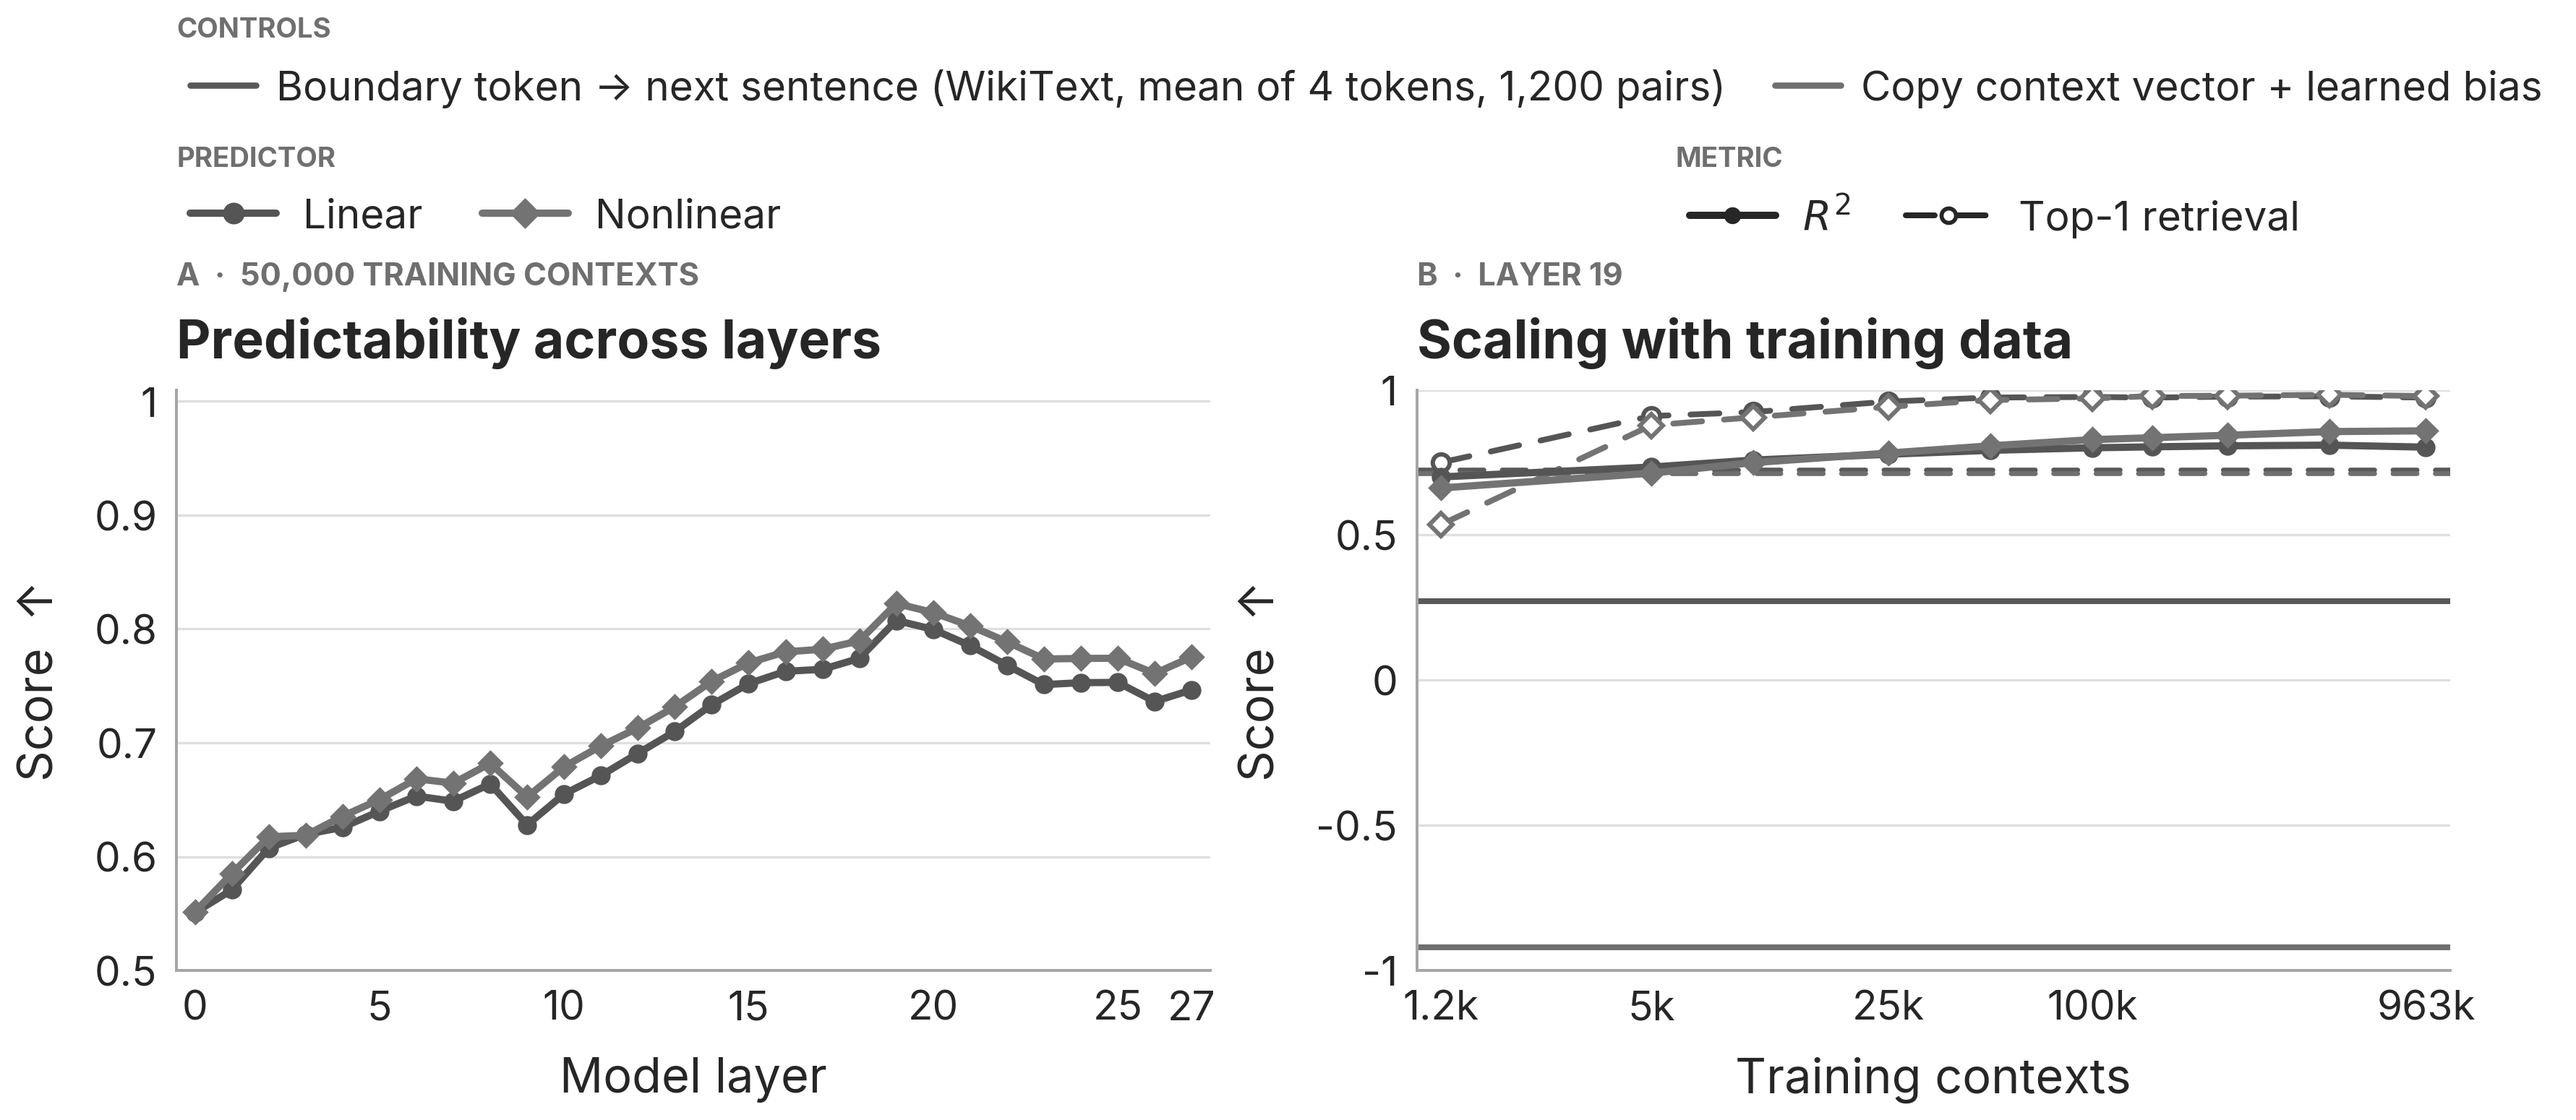
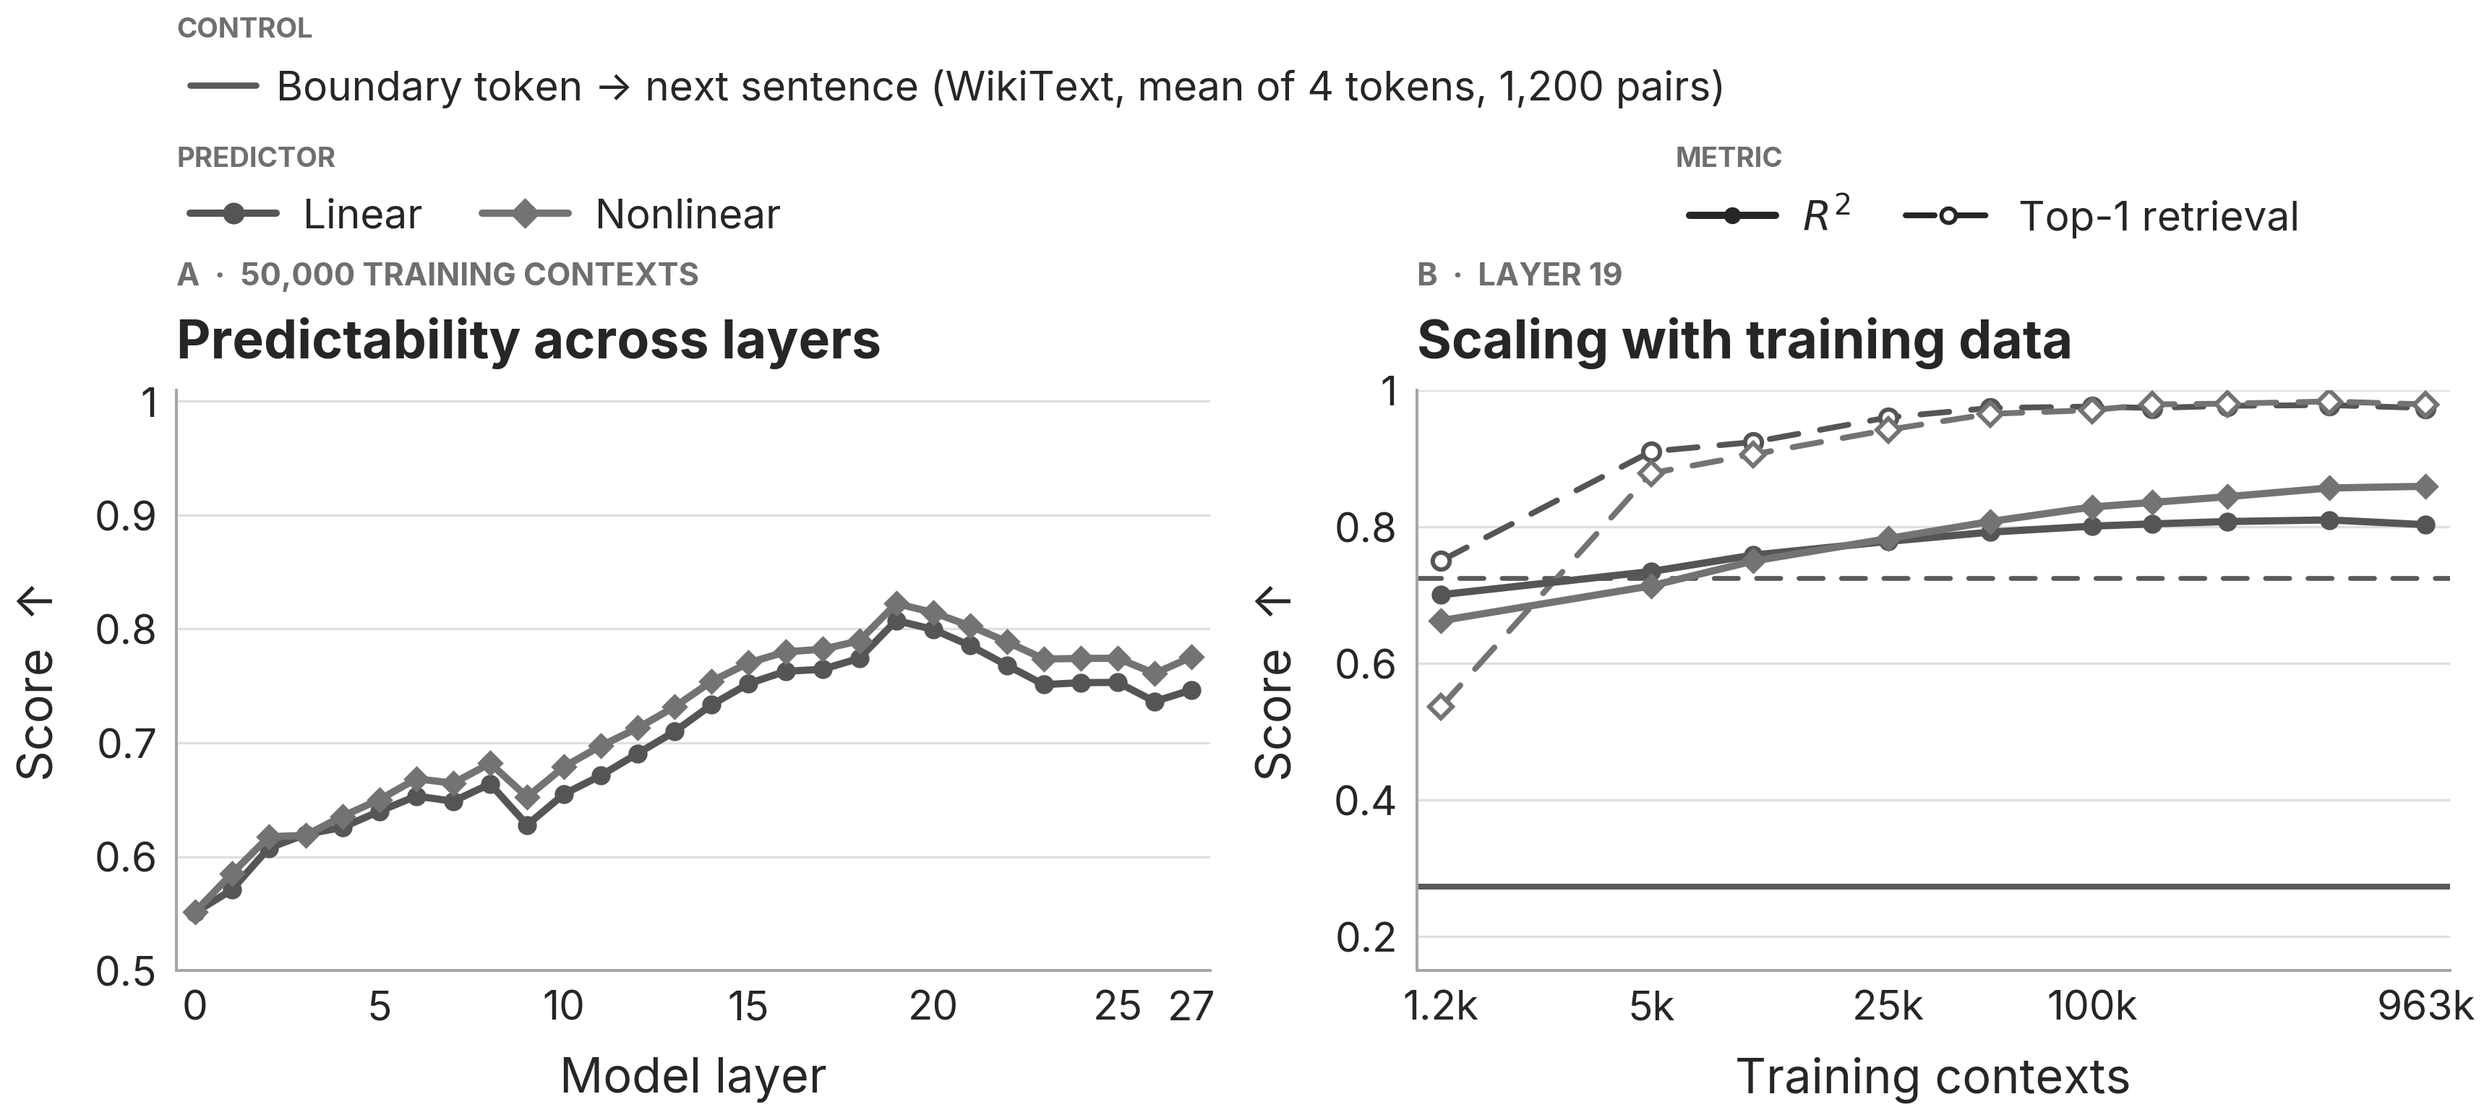
Figure 2B: drop the copy-context baseline lines (kept in sidecar metadata)
Generated with [Claude Code](https://claude.ai/code)
via [Happy](https://happy.engineering)

diff --git a/scripts/make_paper_figure2.py b/scripts/make_paper_figure2.py
@@ -162,10 +162,8 @@ def _plot_controls(ax: plt.Axes, boundary: dict | None, extension: dict | None) 
     if boundary is not None:
         ax.axhline(boundary["r2_mean"], color=BOUNDARY_COLOR, lw=2.4, zorder=2)
         ax.axhline(boundary["retrieval_mean"], color=BOUNDARY_COLOR, lw=2.0, linestyle=dash, zorder=2)
-    if extension is not None:
-        ib = extension["identity_bias"]
-        ax.axhline(ib["r2"], color=COPY_COLOR, lw=2.4, zorder=2)
-        ax.axhline(ib["retrieval"], color=COPY_COLOR, lw=2.0, linestyle=dash, zorder=2)
+    # The copy-context baselines stay in the sidecar metadata but are not drawn
+    # (their R^2 is far below the axis; the text quotes them).
 
 
 def _control_legend_handles(boundary: dict | None, extension: dict | None) -> list[Line2D]:
@@ -173,8 +171,6 @@ def _control_legend_handles(boundary: dict | None, extension: dict | None) -> li
     if boundary is not None:
         handles.append(Line2D([0], [0], color=BOUNDARY_COLOR, lw=2.6,
                               label=f"Boundary token \u2192 next sentence (WikiText, mean of {boundary['n_tokens']} tokens, {boundary['n_train_per_token']:,} pairs)"))
-    if extension is not None:
-        handles.append(Line2D([0], [0], color=COPY_COLOR, lw=2.6, label="Copy context vector + learned bias"))
     return handles
 
 
@@ -310,8 +306,8 @@ def make_figure(layer: dict, scaling: dict, boundary: dict | None = None, extens
     controls = boundary is not None or extension is not None
     if controls:
         _plot_controls(ax_scale, boundary, extension)
-        ax_scale.set_ylim(-1.0, 1.0)
-        ax_scale.set_yticks([-1.0, -0.5, 0.0, 0.5, 1.0])
+        ax_scale.set_ylim(0.15, 1.0)
+        ax_scale.set_yticks([0.2, 0.4, 0.6, 0.8, 1.0])
 
     ax_layer.set_xlim(-0.5, 27.5)
     ax_layer.set_xticks([0, 5, 10, 15, 20, 25, 27])
@@ -379,7 +375,7 @@ def make_figure(layer: dict, scaling: dict, boundary: dict | None = None, extens
         fig.text(
             0.075,
             0.995,
-            "CONTROLS",
+            "CONTROL",
             color=MUTED,
             fontsize=11.5,
             fontweight=750,
@@ -529,8 +525,8 @@ def _write_outputs(
                             "path": _display_path(extension_source),
                             "sha256": _sha256(extension_source),
                         },
-                        "encoding": "1,200-context rung joins the predictor curves; gray horizontal "
-                        "lines = copy context vector + learned bias (solid R^2, dashed strict top-1)",
+                        "encoding": "1,200-context rung joins the predictor curves; the copy-context "
+                        "baselines are recorded here but not drawn",
                         **extension,
                     }
                 ),
